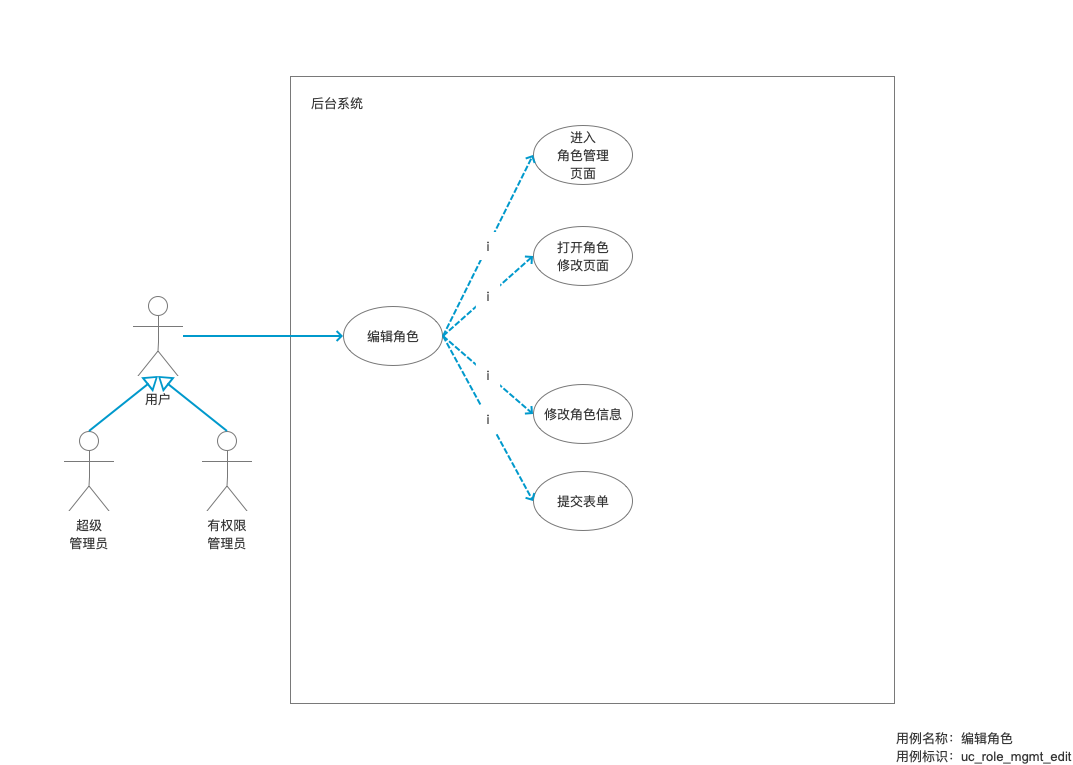
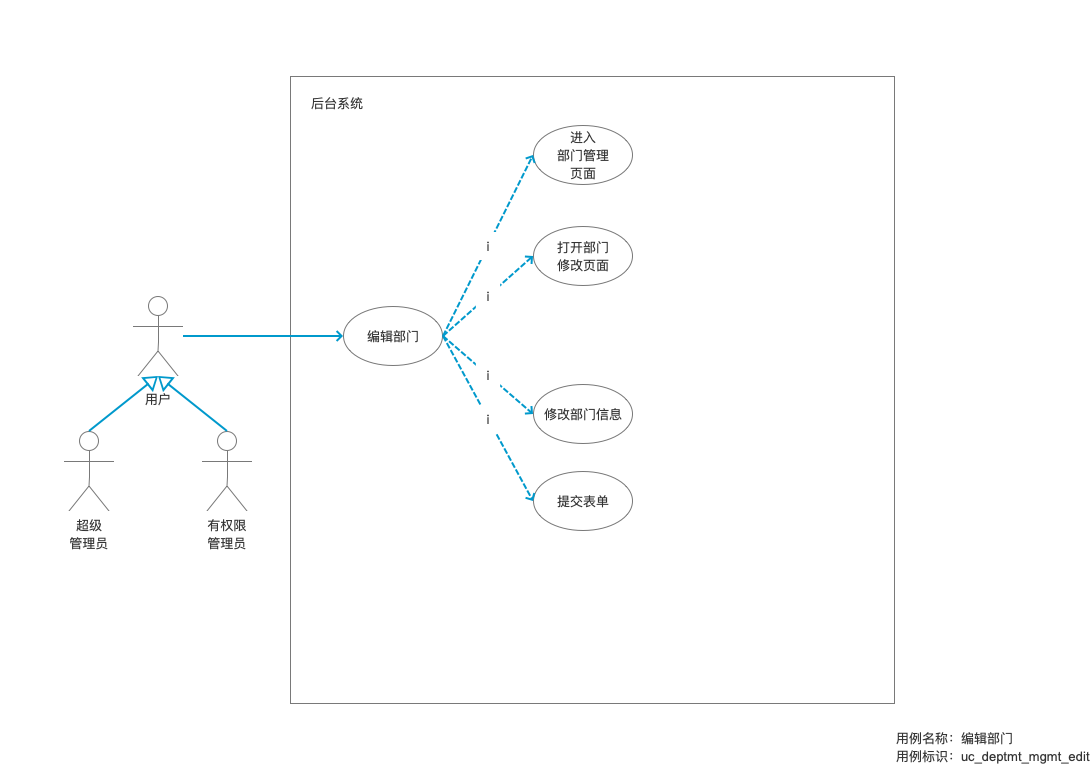
feat(prd): department edit

diff --git a/docs/zh/v1/product/design/prd/system/organization/department/detail.md b/docs/zh/v1/product/design/prd/system/organization/department/detail.md
@@ -10,13 +10,16 @@ description: 查看部门详情的功能描述
 
 ## 用例
 
+![](../../../../images/uc_deptmt_mgmt_detail.png)
 
 ## 用例描述
 
-![](../../../images/stakeholder-sys.png)
+![](../../../../images/uc_desc_deptmt_mgmt_detail.png)
 
 ## 流程图
 
+![](../../../../images/fl_deptmt_mgmt_detail.png)
 
 ## 原型图
 
+![](../../../../images/pt_deptmt_mgmt_detail.png)

diff --git a/docs/zh/v1/product/design/prd/system/organization/department/edit.md b/docs/zh/v1/product/design/prd/system/organization/department/edit.md
@@ -10,12 +10,16 @@ description: 编辑部门的功能描述
 
 ## 用例
 
+![](../../../../images/uc_deptmt_mgmt_edit.png)
 
 ## 用例描述
 
+![](../../../../images/uc_desc_deptmt_mgmt_edit.png)
 
 ## 流程图
 
+![](../../../../images/fl_deptmt_mgmt_edit.png)
 
 ## 原型图
 
+![](../../../../images/pt_deptmt_mgmt_edit.png)

diff --git a/docs/zh/v1/product/design/prd/system/role/setPermissions.md b/docs/zh/v1/product/design/prd/system/role/setPermissions.md
@@ -14,8 +14,8 @@ description: 设置权限的功能描述
 
 ## 用例
 
-![](../../images/uc_role_mgmt_setpermission.png)
+![](../../../images/uc_role_mgmt_setpermission.png)
 
 ## 原型图
 
-![](../../images/pt_role_mgmt_setpermission.png)
+![](../../../images/pt_role_mgmt_setpermission.png)

diff --git a/docs/zh/v1/product/design/prd/system/user/resetPass.md b/docs/zh/v1/product/design/prd/system/user/resetPass.md
@@ -14,7 +14,7 @@ description: 重设用户密码的功能描述
 
 ## 用例描述
 
-![](../../../images/uc_desc_usr_mgmt-resetpass.png)
+![](../../../images/uc_desc_usr_mgmt_resetpass.png)
 
 ## 流程图
 

diff --git a/docs/zh/v1/product/design/prd/system/user/detail.md b/docs/zh/v1/product/design/prd/system/user/detail.md
@@ -14,7 +14,7 @@ description: 查看用户详情的功能描述
 
 ## 用例描述
 
-![](../../../images/uc_desc_usr_mgmt-detail.png)
+![](../../../images/uc_desc_usr_mgmt_detail.png)
 
 ## 流程图
 

diff --git a/docs/zh/v1/product/design/prd/system/user/list.md b/docs/zh/v1/product/design/prd/system/user/list.md
@@ -14,7 +14,7 @@ description: 查看用户列表的功能描述
 
 ## 用例描述
 
-![](../../../images/uc_desc_usr_mgmt-list.png)
+![](../../../images/uc_desc_usr_mgmt_list.png)
 
 ## 流程图
 

diff --git a/docs/zh/v1/product/design/prd/system/user/delete.md b/docs/zh/v1/product/design/prd/system/user/delete.md
@@ -14,7 +14,7 @@ description: 删除用户的功能描述
 
 ## 用例描述
 
-![](../../../images/uc_desc_usr_mgmt-delete.png)
+![](../../../images/uc_desc_usr_mgmt_delete.png)
 
 ## 流程图
 

diff --git a/docs/zh/v1/product/design/prd/system/user/login.md b/docs/zh/v1/product/design/prd/system/user/login.md
@@ -14,7 +14,7 @@ description: 用户登录的功能描述
 
 ## 用例描述
 
-![](../../../images/uc_desc_usr_mgmt-login.png)
+![](../../../images/uc_desc_usr_mgmt_login.png)
 
 ## 流程图
 

diff --git a/docs/zh/v1/product/design/prd/system/user/edit.md b/docs/zh/v1/product/design/prd/system/user/edit.md
@@ -14,7 +14,7 @@ description: 编辑用户的功能描述
 
 ## 用例描述
 
-![](../../../images/uc_desc_usr_mgmt-edit.png)
+![](../../../images/uc_desc_usr_mgmt_edit.png)
 
 ## 流程图
 
